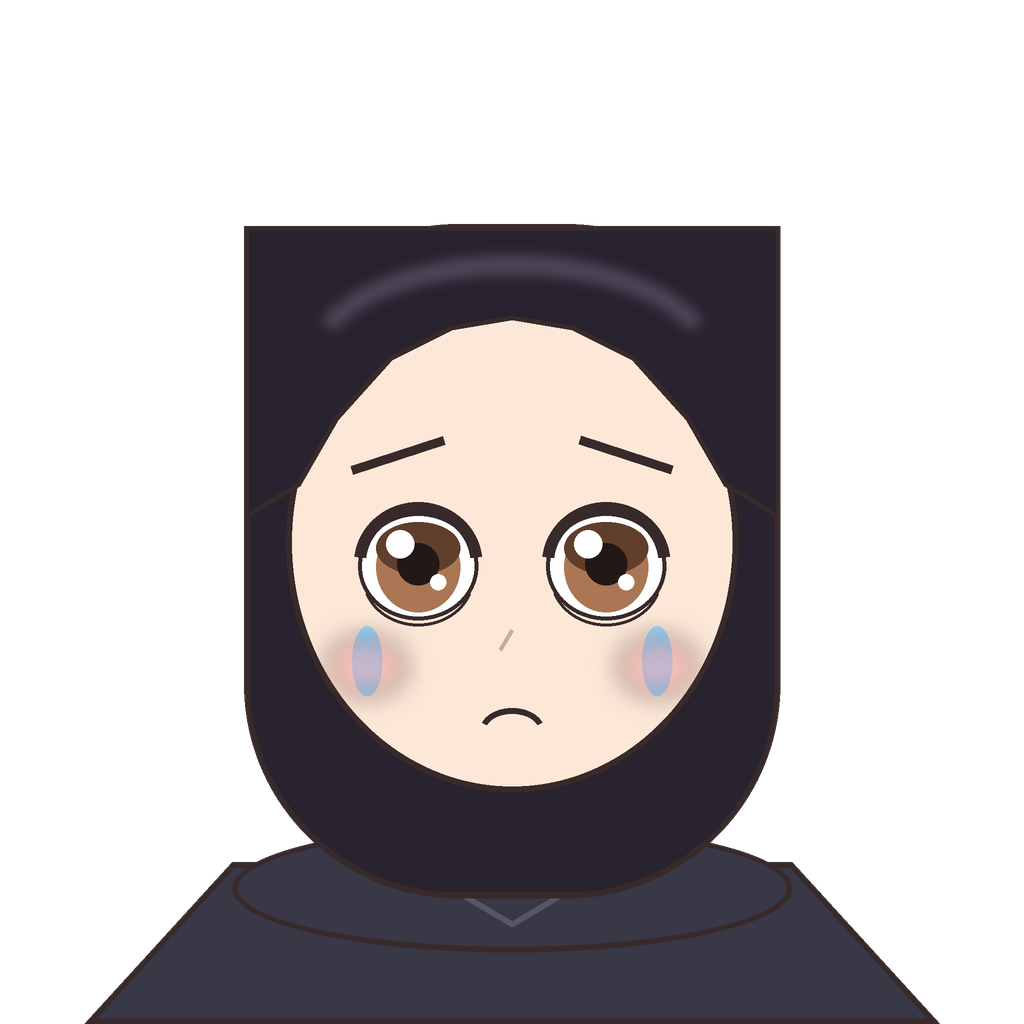
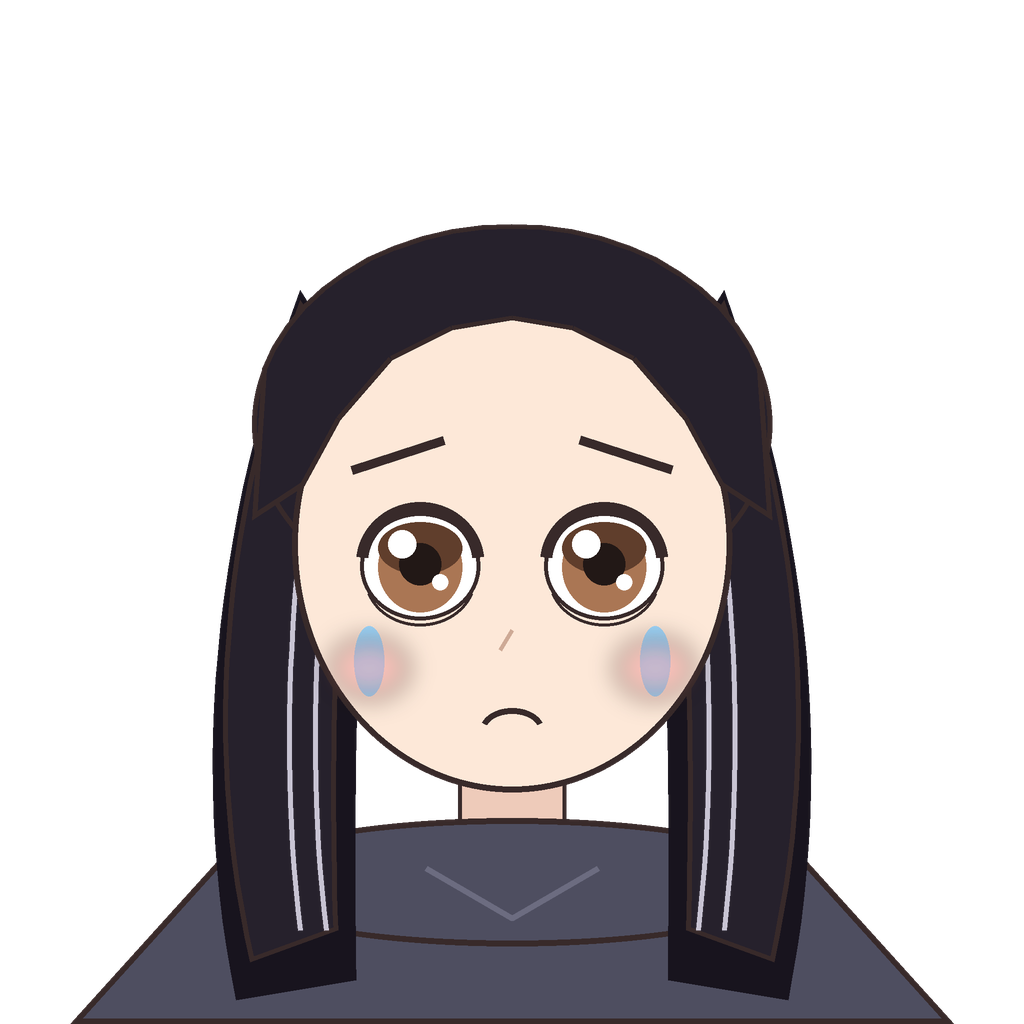
feat: 长发垂落 + 场景细节 + 每日任务与改名
形象
- 头发改为分层自然垂落：后层更暗做大层次，上层两侧沿贝塞尔外鼓、底部收尖
- 刘海的上缘改走头冠椭圆弧，消除平顶
- 衣服由近黑改为偏灰，和头发拉开明度差，垂发不再糊成两条带子

场景
- 墙上加挂画（双层边框 + 画芯）
- 全屏暗角，让视觉聚焦到宠物

功能
- 每日任务：喂食 3 次 / 摸 5 次 / 玩一局，达标自动发金币，零点和日期切换时重置
- 宠物改名：点名字弹输入框，最长 8 字
- 小游戏结算时同步记任务进度

diff --git a/miniprogram/pages/home/home.js b/miniprogram/pages/home/home.js
@@ -51,6 +51,9 @@ Page({
     coins: 0,
     level: 1,
     title: '陌生人',
+    name: '小名还没起',
+    tasks: [],
+    tasksDone: 0,
     expPct: 0,
     expText: '',
     foodCount: 0,
@@ -127,6 +130,7 @@ Page({
     });
 
     const lv = game.levelOf(s.exp);
+    const tasks = game.taskList(s);
 
     const patch = {
       hunger: Math.round(s.hunger),
@@ -138,6 +142,9 @@ Page({
       coins: s.coins,
       level: lv.lv,
       title: lv.title,
+      name: s.name,
+      tasks: tasks,
+      tasksDone: tasks.filter((t) => t.done).length,
       expPct: lv.progress,
       expText: lv.isMax ? '已满级' : (s.exp + ' / ' + lv.nextNeed),
       foodCount: s.inv.basic,
@@ -246,7 +253,12 @@ Page({
     // 互动也给一点点金币和少量经验，但有每日上限
     const gain = game.addCoins(this.state, 1);
     if (gain > 0) game.addExp(this.state, 1);
+    const task = game.bump(this.state, 'touch');
     this.save();
+
+    if (task.reward > 0) {
+      text = text + ' 任务完成 +' + task.reward + ' 金币';
+    }
 
     this.say(text, anim);
     this.spawnParticles(part);
@@ -273,9 +285,13 @@ Page({
       return;
     }
     s.cd.feed = Date.now() + pet.CONFIG.actions.feed.cooldownSec * 1000;
+    const task = game.bump(s, 'feed');
     this.save();
 
-    this.say(r.leveledUp ? '升级了！现在是「' + r.level.title + '」' : '好吃！', 'anim-head');
+    let line = r.leveledUp ? '升级了！现在是「' + r.level.title + '」' : '好吃！';
+    if (task.reward > 0) line += ' 任务完成 +' + task.reward + ' 金币';
+
+    this.say(line, 'anim-head');
     this.spawnParticles('belly');
     this.render();
   },
@@ -348,5 +364,23 @@ Page({
 
   goGame() {
     wx.navigateTo({ url: '/pages/game/game' });
+  },
+
+  onRename() {
+    wx.showModal({
+      title: '给它起个名字',
+      editable: true,
+      placeholderText: '例如：小九',
+      content: this.state.name || '',
+      success: (res) => {
+        if (!res.confirm) return;
+        const name = (res.content || '').trim().slice(0, 8);
+        if (!name) return;
+        this.state.name = name;
+        this.save();
+        this.render();
+        this.say('我叫' + name + '了', 'anim-feet');
+      }
+    });
   }
 });

diff --git a/miniprogram/utils/game.js b/miniprogram/utils/game.js
@@ -67,6 +67,7 @@ function yesterdayKey() {
 
 /** 补齐老存档里缺的字段 */
 function ensure(s) {
+  if (!s.name) s.name = '小名还没起';
   if (typeof s.coins !== 'number') s.coins = 10;
   if (typeof s.exp !== 'number') s.exp = 0;
   if (!s.inv || typeof s.inv !== 'object') s.inv = { basic: 3, snack: 0, feast: 0 };
@@ -182,9 +183,64 @@ function randomEvent(awayMs) {
   return null;
 }
 
+/** ---------------- 每日任务 ---------------- */
+
+const TASKS = [
+  { id: 'feed', name: '喂它 3 次', target: 3, coins: 8 },
+  { id: 'touch', name: '摸摸它 5 次', target: 5, coins: 6 },
+  { id: 'game', name: '玩一局小游戏', target: 1, coins: 10 }
+];
+
+function ensureDaily(s) {
+  const today = todayKey();
+  if (s.dailyDay !== today) {
+    s.dailyDay = today;
+    s.daily = {};
+    s.dailyRewarded = {};
+  }
+  if (!s.daily) s.daily = {};
+  if (!s.dailyRewarded) s.dailyRewarded = {};
+}
+
+/**
+ * 记一次任务进度，达成时自动发奖励。
+ * 返回 { reward } —— reward > 0 表示刚好完成
+ */
+function bump(s, id) {
+  ensureDaily(s);
+  s.daily[id] = (s.daily[id] || 0) + 1;
+
+  const task = TASKS.find((t) => t.id === id);
+  if (!task) return { reward: 0 };
+
+  if (s.daily[id] >= task.target && !s.dailyRewarded[id]) {
+    s.dailyRewarded[id] = true;
+    s.coins += task.coins;
+    return { reward: task.coins, name: task.name };
+  }
+  return { reward: 0 };
+}
+
+function taskList(s) {
+  ensureDaily(s);
+  return TASKS.map((t) => {
+    const cur = Math.min(s.daily[t.id] || 0, t.target);
+    return {
+      id: t.id,
+      name: t.name,
+      target: t.target,
+      cur: cur,
+      done: cur >= t.target,
+      coins: t.coins,
+      pct: Math.round((cur / t.target) * 100)
+    };
+  });
+}
+
 module.exports = {
   FOODS,
   LEVELS,
+  TASKS,
   ensure,
   levelOf,
   addExp,
@@ -193,5 +249,7 @@ module.exports = {
   useFood,
   buy,
   randomEvent,
-  todayKey
+  todayKey,
+  bump,
+  taskList
 };

diff --git a/miniprogram/pages/game/game.js b/miniprogram/pages/game/game.js
@@ -139,12 +139,15 @@ Page({
       this.setData({ best: score });
     }
 
-    if (coins > 0) {
-      const s = game.ensure(wx.getStorageSync(STORE_KEY) || {});
-      // 小游戏金币不占每日互动上限，单独结算
-      s.coins += coins;
-      game.addExp(s, Math.floor(score / 3));
-      wx.setStorageSync(STORE_KEY, s);
+    const s = game.ensure(wx.getStorageSync(STORE_KEY) || {});
+    // 小游戏金币不占每日互动上限，单独结算
+    s.coins += coins;
+    game.addExp(s, Math.floor(score / 3));
+    const task = game.bump(s, 'game');
+    wx.setStorageSync(STORE_KEY, s);
+
+    if (task.reward > 0) {
+      this.setData({ coinsEarned: coins + task.reward });
     }
   },
 
